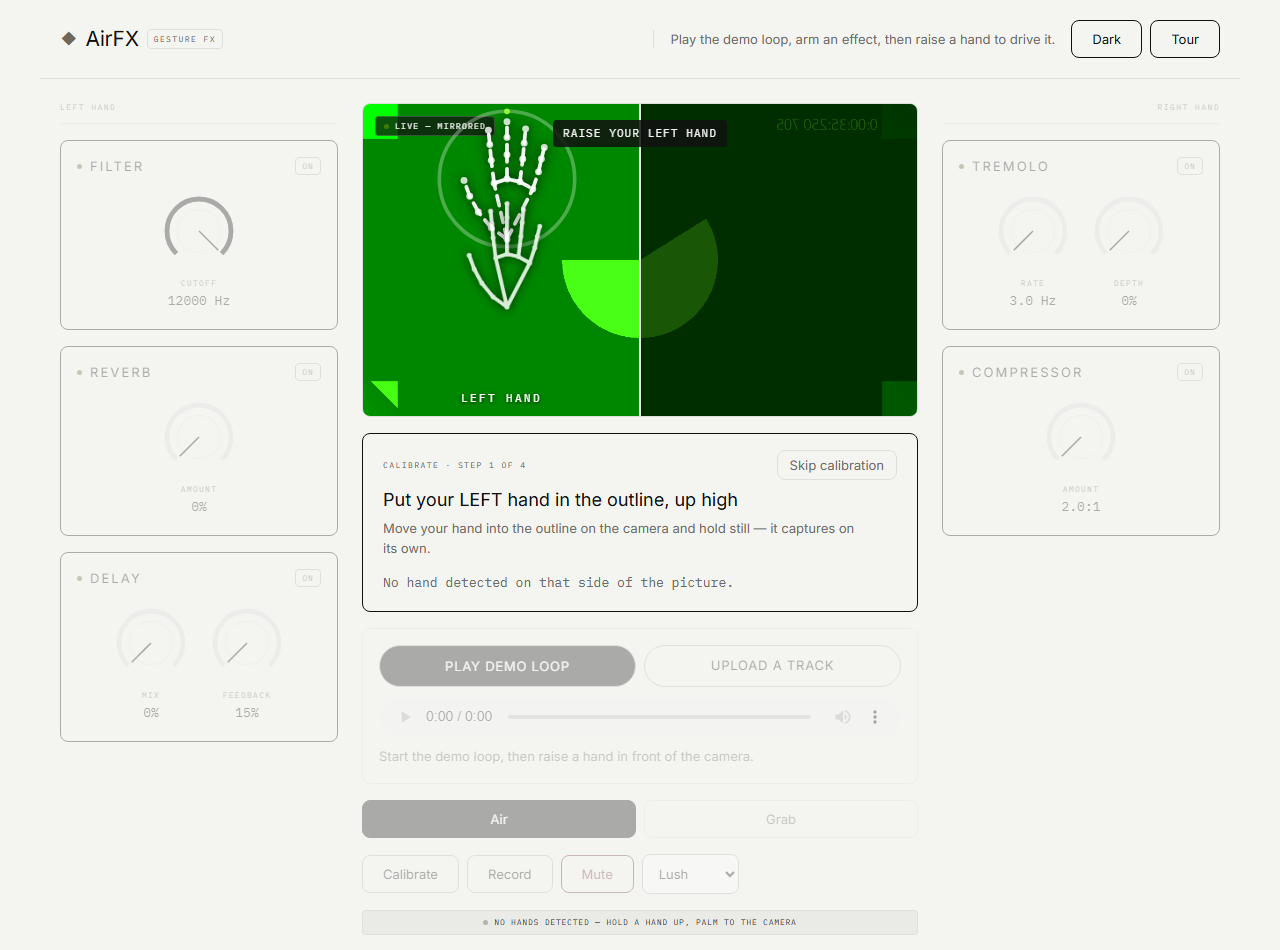
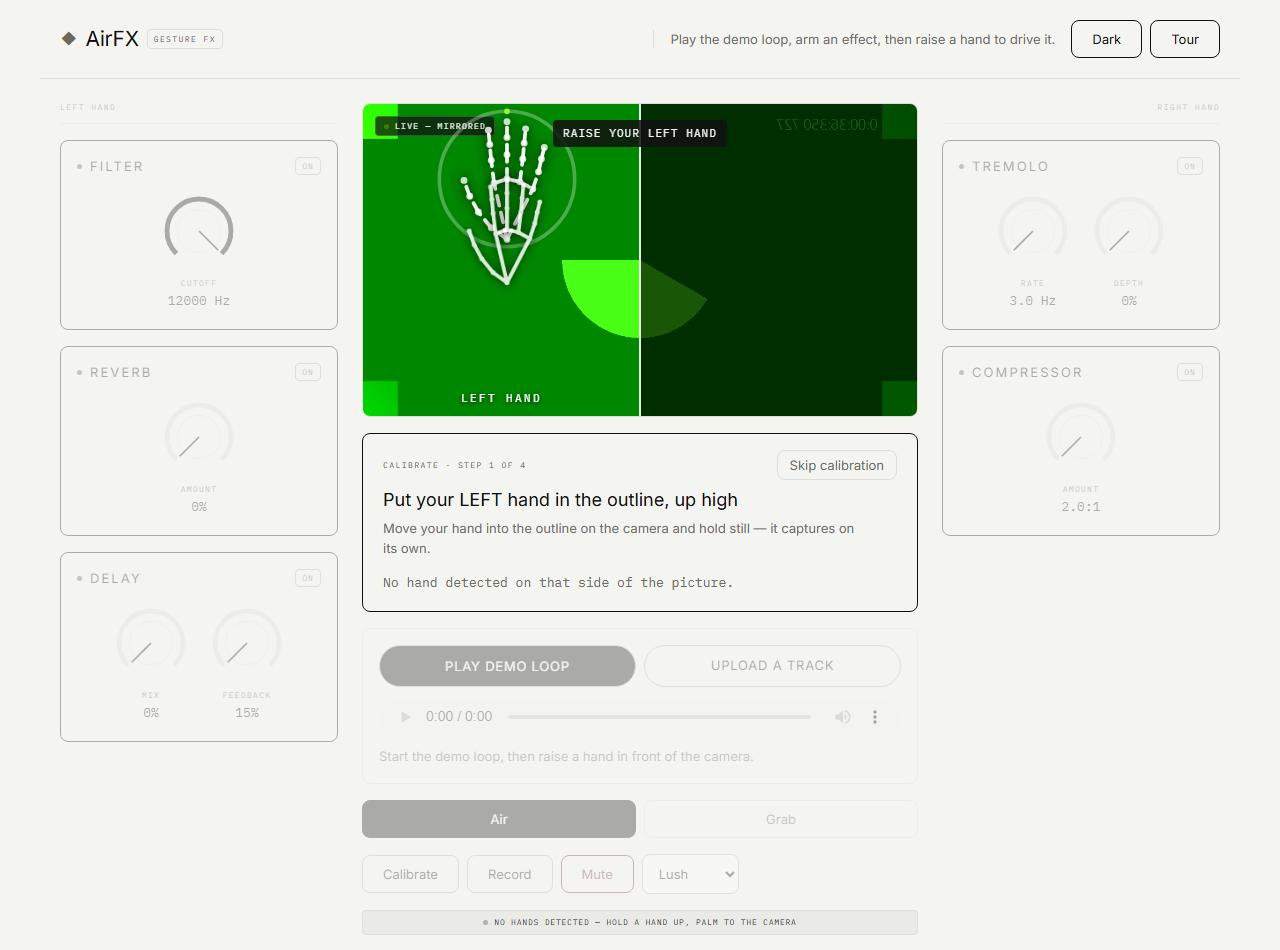
test: assert the tour explains every interactive control
Tour copy is documentation living inside the app: it rots exactly like
documentation while still rendering perfectly, so nothing catches it. Grab
mode once shipped with no tour step at all and no signal anywhere reported
it — an absent step is an absence, and absences are invisible to review,
to grep, and to the tour itself.

These tests do not check the prose is correct (not cheaply testable). They
check nothing interactive is left unexplained, which is the failure mode
that actually hides. Seven cases: every control is a tour target, no step
spotlights a container of unrelated controls, every step has a body worth
reading, exactly one step is last, two known-stale lines never come back,
the phase dots still fit a 375px card, and the removed floating-hand code
stays removed.

It immediately found two real gaps: #modeAir was only reachable via its
container, and the wrap-up step still spotlit the four-control .actions row
after each of those controls had been given its own step. Both fixed.

61/61 tests pass.

Claude-Session: https://claude.ai/code/session_01LFNTnxb7qXptJ89iHzW7YV

diff --git a/src/ui/onboarding.js b/src/ui/onboarding.js
@@ -3,7 +3,7 @@
 // spotlight on the real control, voice narration, Next/Back/Skip on every step, and a
 // phase-jump. Idempotent: only sets `airfx.onboarded`; never touches audio/profile state.
 
-const STEPS = [
+export const STEPS = [
   { phase: 'Welcome', title: '👋 Meet AirFX', body: 'Play the built-in loop (or your own track) and bend its sound with your hands in the air — like conducting effects. About 30 seconds to set up.', say: 'Welcome to AirFX. Play the built in loop, or your own track, and shape its sound with your hands in the air. This quick tour will get you set up.' },
 
   { phase: 'Calibrate', title: 'First, your reach', body: 'I’ll learn how high and low your hands go, so lifting a hand means “more effect.”', target: '#calibrateBtn', say: "First, let's set your reach, so lifting a hand means more effect." },
@@ -24,7 +24,7 @@ const STEPS = [
 
   { phase: 'Modes', title: 'Two ways to play', body: 'Air is what you have been doing: your hand HEIGHT drives every armed effect at once, like conducting. Grab is the fine version — one knob at a time, set exactly where you want it.', target: '.modes', say: 'There are two ways to play. Air is what you have been doing: hand height drives every armed effect at once. Grab is the fine version, one knob at a time.' },
   { phase: 'Modes', title: 'How Grab works', body: 'Tap Grab and a ring appears for each hand, following your index fingertip. Put a ring over a knob, pinch thumb and finger together to take hold, then move to turn it. Release to let go — the knob stays where you left it.', target: '#modeGrab', say: 'Tap grab, and a ring appears for each hand, following your index finger. Put a ring over a knob, pinch your thumb and finger together to take hold, then move to turn it. Release, and the knob stays where you left it.' },
-  { phase: 'Modes', title: 'Grab arms as you go', body: 'Grabbing a knob switches that effect on automatically, so you can pull an effect back into the mix just by reaching for it. Tap Air to go back to whole-hand control.', target: '.modes', say: 'Grabbing a knob switches that effect on automatically. Tap air to go back to whole hand control.' },
+  { phase: 'Modes', title: 'Grab arms as you go', body: 'Grabbing a knob switches that effect on automatically, so you can pull an effect back into the mix just by reaching for it. Tap Air to go back to whole-hand control.', target: '#modeAir', say: 'Grabbing a knob switches that effect on automatically. Tap air to go back to whole hand control.' },
 
   { phase: 'Presets', title: 'Presets set the ceiling', body: 'Subtle, Lush and Extreme change how FAR the effects can go at full reach — the same gesture goes further on Extreme. Lush is the default.', target: '#preset', say: 'Presets set the ceiling. Subtle, lush and extreme change how far the effects go at full reach. The same gesture goes further on extreme.' },
 
@@ -33,7 +33,7 @@ const STEPS = [
   { phase: 'Mute', title: 'Mute is your panic button', body: 'Mute silences the output instantly if a sound gets away from you — a runaway delay, say. It stays lit while muted; press it again to bring the sound back.', target: '#panicBtn', say: 'Mute silences everything instantly if a sound gets away from you. It stays lit while muted. Press it again to bring the sound back.' },
   { phase: 'Mute', title: 'Recalibrate anytime', body: 'Moved your chair, or someone else wants a go? Tap Calibrate to redo your reach — it takes about fifteen seconds.', target: '#calibrateBtn', say: 'Moved your chair, or someone else wants a go? Tap calibrate to redo your reach. It takes about fifteen seconds.' },
 
-  { phase: 'Done', title: 'You’re ready 🎚', body: 'Tap “Tour” in the header to replay this anytime. Headphones are worth it.', target: '.actions', last: true, say: "You're all set. Tap tour in the header to replay this anytime. Headphones are worth it. Have fun." },
+  { phase: 'Done', title: 'You’re ready 🎚', body: 'Tap “Tour” in the header to replay this anytime. Headphones are worth it.', last: true, say: "You're all set. Tap tour in the header to replay this anytime. Headphones are worth it. Have fun." },
 ];
 
 const FLAG = 'airfx.onboarded';

diff --git a/tests/tour-coverage.test.js b/tests/tour-coverage.test.js
@@ -1,0 +1,67 @@
+import { test } from 'node:test';
+import assert from 'node:assert/strict';
+import { readFileSync } from 'node:fs';
+import { STEPS } from '../src/ui/onboarding.js';
+
+// Tour copy is documentation living inside the app, and it rots exactly like documentation
+// while still rendering perfectly. These tests do not check that the prose is CORRECT — that
+// is not cheaply testable — they check that nothing interactive is left unexplained, which is
+// the failure that is invisible to review. Grab mode once shipped with no tour step at all,
+// and nothing anywhere noticed.
+
+// Every interactive surface a first-time user has to understand.
+const CONTROLS = [
+  '#calibrateBtn', '#recordBtn', '#panicBtn', '#preset',
+  '#modeAir', '#modeGrab', '.track-actions', '.fx', '.stage',
+];
+
+const targets = STEPS.map((s) => s.target).filter(Boolean);
+
+test('every interactive control is explained by at least one tour step', () => {
+  for (const control of CONTROLS) {
+    const covered = targets.some((t) => t === control || t.includes(control.replace(/^[#.]/, '')));
+    assert.ok(covered, `${control} is never a tour target — it ships unexplained`);
+  }
+});
+
+test('no step spotlights a container of several unrelated controls', () => {
+  // Pointing the spotlight at a row of four buttons promises "look at this" and then
+  // breaks the promise. One step, one control.
+  assert.ok(!targets.includes('.actions'),
+    '.actions holds Calibrate/Record/Mute/Preset — split it into a step each');
+});
+
+test('every step has a body worth reading', () => {
+  for (const s of STEPS) {
+    assert.ok(s.title && s.title.length > 3, `step "${s.title}" needs a title`);
+    assert.ok(s.body && s.body.length >= 40, `step "${s.title}" body is too thin to teach anything`);
+  }
+});
+
+test('exactly one step is marked last', () => {
+  assert.equal(STEPS.filter((s) => s.last).length, 1);
+  assert.ok(STEPS[STEPS.length - 1].last, 'the last step must be the one marked last');
+});
+
+test('tour copy does not describe behaviour that has changed', () => {
+  // Each of these was a real stale line at some point this session.
+  const prose = STEPS.map((s) => `${s.title} ${s.body} ${s.say || ''}`).join(' ').toLowerCase();
+  assert.ok(!/mute is your panic button.*(?!toggle)/.test(prose) || /press it again|toggle/.test(prose),
+    'Mute is a toggle — the tour must not present it as one-way');
+  assert.ok(!/tap upload and pick any audio file/.test(prose),
+    'a demo loop exists; the tour must not imply a file is required');
+});
+
+test('phase dots stay countable on a narrow card', () => {
+  // The card is min(360px, 100vw - 24px); dots are 16px + 4px gap and must not wrap.
+  const phases = [...new Set(STEPS.map((s) => s.phase))];
+  const width = phases.length * 16 + (phases.length - 1) * 4;
+  assert.ok(width <= 351, `${phases.length} phases need ${width}px of dots; the card is ~351px at 375px`);
+});
+
+test('the guide metadata removed with the floating hand is really gone', () => {
+  const src = readFileSync(new URL('../src/ui/onboarding.js', import.meta.url), 'utf8');
+  assert.ok(!src.includes('ob-hand'), 'the floating hand emoji element was removed');
+  assert.ok(!src.includes('showHand'), 'its positioning function was removed');
+  assert.ok(!/guide: \{/.test(src), 'its per-step metadata was removed');
+});
